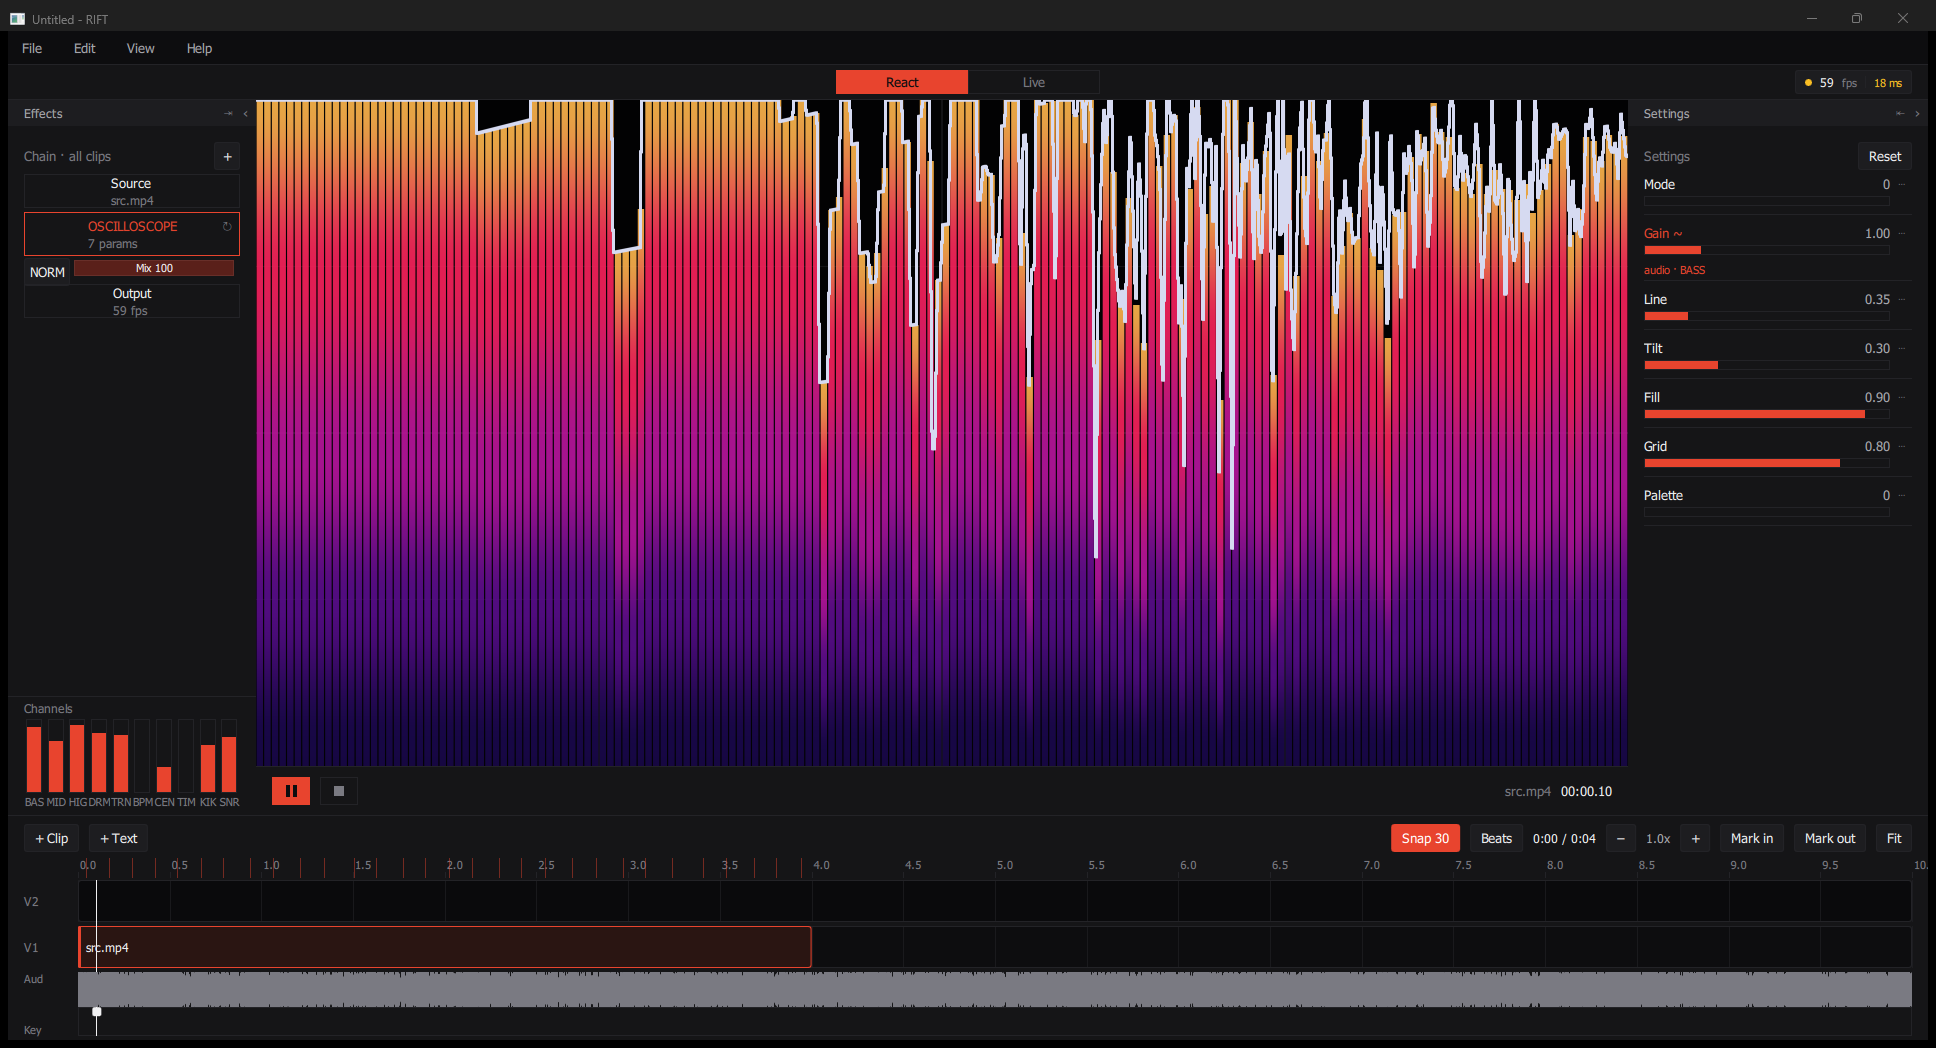
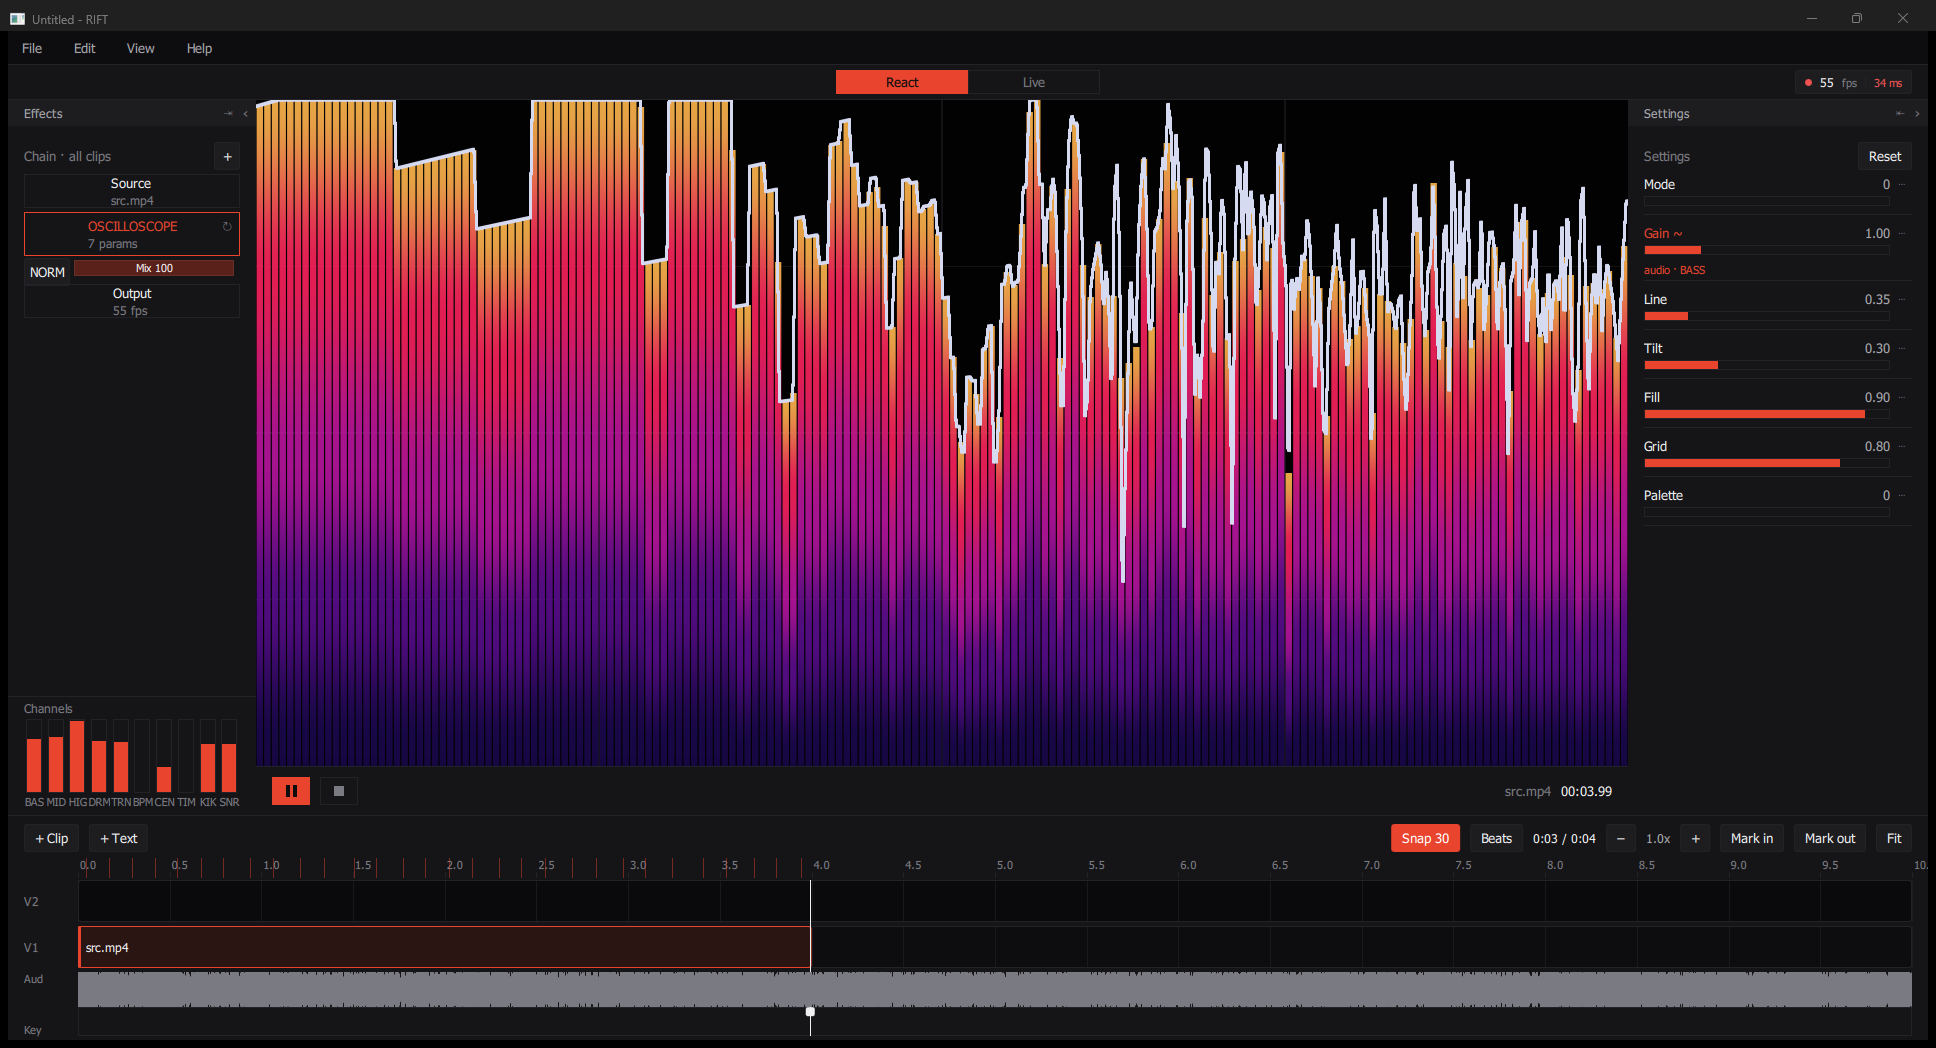
0.1.2 - timeline rebuilt, live audio from any DAW
Second and third rounds of testing fixes.

Timeline: trimming showed nothing until release, and every drag was measured
in the coordinate system of the item being dragged - which moves as it is
dragged, so each measurement cancelled part of its own effect and clips
trailed the cursor. Clips now snap to lanes, edges and the playhead, and the
target lane lights up.

Live: reacts to any application's audio output, one sound source at a time,
and footage can be imported with the timeline hidden.

Composition: crop rectangle on clips gives split screen alongside
picture-in-picture, with one-click layouts. Aspect ratio is chosen at project
start. Preset library.

Fixed: effects silently did nothing when a blend mode was set - the
compositor gained crop parameters and two callers still passed the old count,
so the crop arrived as zero and the shader discarded every pixel.

diff --git a/CHANGELOG.md b/CHANGELOG.md
@@ -1,5 +1,115 @@
 # Changelog
 
+## 0.1.2 - 1 August 2026
+
+Second and third rounds of testing fixes. Everything on the list from the last
+round is in, and the timeline was largely rebuilt.
+
+### Fixed
+
+- **A terminal window opened alongside the app.** The executable was being
+  linked as a console program, so Windows gave it a console every launch.
+- **The timeline stuttered.** With it on screen the worst frame was 251 ms;
+  hidden, 33 ms. A per-frame check compared the track length with a tolerance
+  of about a picosecond, so a duration wobbling in its last bits rebuilt the
+  entire clip model on every single frame. Worst frame is now around 30 ms and
+  React sits within a couple of frames per second of Live.
+- **The three dots beside a parameter did nothing.** They drew, but their
+  container had no height, and a zero-height item receives no clicks.
+- **Exporting was far slower than it needed to be.** Every render pass opened
+  its own GPU frame, and each one is a submit followed by a wait for the card to
+  drain - so a chain of three effects paid three full stalls per frame on top of
+  the audio uploads and the readback. The whole frame is now one submit, and a
+  three-effect chain costs the same as one.
+- Audio textures were uploaded in two separate GPU submissions per frame instead
+  of one.
+
+### New
+
+- **Preset library.** Save the current look and pick it back out of a list.
+  Presets live in your app data, so they are there in every project.
+- **Duplicate clip**, effects and all.
+- **Seek buttons** either side of play, five seconds at a time.
+- **Mark in / mark out** for exporting a range.
+
+### Changed
+
+- **Sliders** have a real handle instead of a filled box, so the value is
+  visible and the control looks draggable.
+- **One transport, not two.** Live mode had its own play/pause under the
+  controller as well as the one under the viewport.
+- **Panels are ordered per mode** - Live puts the controller first, React puts
+  colour and parameters first with the render queue last.
+- **Export defaults to 30 fps**, which halves both render time and file size
+  against 60.
+
+### The timeline
+
+- **Trimming did nothing until you let go of the mouse.** The edge handle only
+  reported its drag on release, so pulling a clip edge felt like the grab had
+  never registered. Both edges now follow the pointer live.
+- **Clips lagged behind the cursor while dragging.** The drag distance was
+  measured in the coordinate system of the item being dragged - which moves as
+  it is dragged, so each measurement cancelled part of its own effect. Clips,
+  clip edges and keyframes all sit under the pointer now.
+- **Dropping onto a lane was guesswork.** A dragged clip floated between rows.
+  It snaps to whole lanes, and the lane it will land on lights up.
+- **Snapping.** Clips pull to the start of the piece, the playhead, and the
+  head or tail of any other clip - ten pixels of pull, so it feels the same at
+  every zoom.
+- **Edge handles are wider** (7px was narrower than a cursor's hot zone) and
+  show grip marks and a resize cursor.
+- **A new clip lands on the first empty lane** instead of being appended after
+  whatever is already on V1.
+- **Razor, copy, paste, fill and remove** as icon buttons on the toolbar.
+
+### Live
+
+- **Audio from any application.** Pick an output device and RIFT reacts to
+  whatever it is playing - a DAW, a browser, a player. No virtual cable, no
+  plugin. The device list refreshes when you open it, so a DAW started after
+  RIFT still appears.
+- **Two sound sources could play at once.** Live listens to the machine's
+  output while React plays the project track, so you heard both - and RIFT
+  could react to its own output. Switching modes now stops the other one.
+- **Footage can be imported with the timeline hidden**, which was previously
+  impossible in Live.
+- **One source picker**, not two disagreeing ones.
+- **A mapping list that works with any controller**, beside the drawn one.
+
+### Composition
+
+- **Split screen and picture in picture.** A clip carries a crop rectangle as
+  well as a transform, and the clip inspector has one-click layouts: full,
+  left, right, top, bottom, corner.
+- **Aspect ratio is chosen when the project starts**, not at export - composing
+  against the wrong frame and finding out at the end means redoing the work.
+- **Preset library**, saved to your app data and available in every project.
+- **Stills can be stretched.** A PNG reports one frame of duration, so it
+  landed on the timeline a few pixels wide with an edge too small to grab.
+
+### Interface
+
+- **Every dock panel is a collapsible section** with the same header: click
+  anywhere on the row, and a closed section still reports what it is doing.
+- **Effect chain drawn as nodes** with ports and a signal path, rather than a
+  list of boxes.
+- **Consistent spacing.** Twenty-seven hand-picked gap values across thirteen
+  files meant no two rows in the app lined up; they now share one token.
+- Smaller slider handles, a larger and easier-to-hit disclosure control, and
+  compact buttons in the keyframe and patch strips.
+
+### Also fixed
+
+- **Effects silently did nothing when a blend mode was set.** The compositor
+  gained crop parameters and two callers were still passing the old count, so
+  the crop arrived as zero and the shader discarded every pixel.
+- **The three dots beside a parameter did nothing.** The property they wrote to
+  was declared on the wrong object, so every click was a no-op.
+- **SVG files loaded and rendered as a placeholder checkerboard.** Decoding is
+  FFmpeg, which has no SVG decoder in an LGPL build. They are no longer offered,
+  and loading one says why.
+
 ## 0.1.1 - 31 July 2026
 
 Fixes from the first round of testing.

diff --git a/README.md b/README.md
@@ -54,7 +54,7 @@ stereometer, bands.*
 
 ## Download
 
-Grab the latest **`RIFT-0.1.1-setup.exe`** from
+Grab the latest **`RIFT-0.1.2-setup.exe`** from
 [**Releases**](../../releases/latest), run it, and you're done. Everything the
 app needs is inside - no Qt, no FFmpeg, no runtime to install separately.
 
